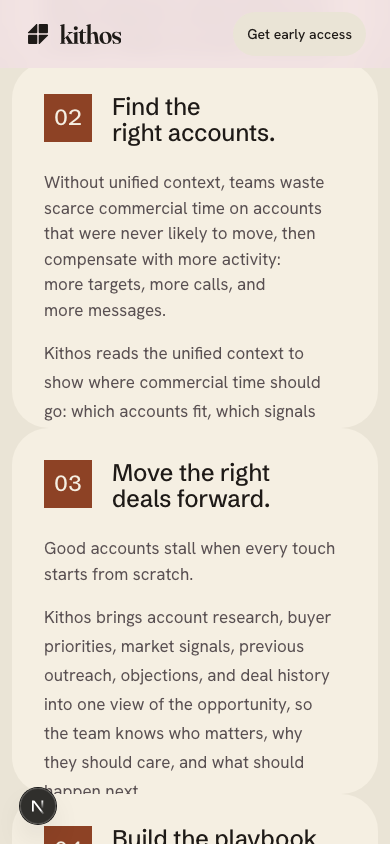
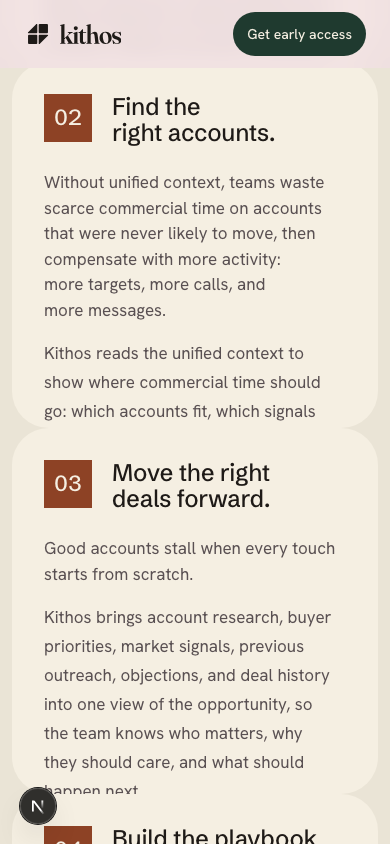
fix(nav): promote CTA to forest pill — ghost tone vanished on bone-shade
After the no-borders pass:
  - AccessButton ghost  → bg-[var(--bone-shade)]
  - TabbedSections      → bg-[var(--bone-shade)]

…meaning the nav CTA's surface was the same colour as the section
surface it floated over (through a 68%-opaque nav tint). The pill
visibly disappeared into TabbedSections, and read as a faint
bone-shade patch on the terracotta closing band.

Switched the nav AccessButton to tone="forest" (brand-primary
pill). Forest (#1F3A2F, L 0.32) contrasts cleanly against every
surface the page can show under the nav — bone, bone-shade,
bone-deeper, and terracotta — in one tone. It also matches the
hero's primary CTA so the brand-primary signal carries across as
the user scrolls.

Brand-mark visual baselines refreshed at all three viewports.
25/25 tests green.

Changed region(s): [[0.5846, 0.0, 0.9538, 0.0924]]

diff --git a/src/app/nav.tsx b/src/app/nav.tsx
@@ -146,7 +146,14 @@ export function Nav() {
           </Link>
 
           <div className="flex items-center gap-1.5 md:gap-3">
-            <AccessButton />
+            {/* Forest pill (brand primary). The nav CTA needs to stay
+                visible across every section it floats over — ghost
+                (bone-shade) vanishes against the bone-shade surface
+                of TabbedSections, and against the terracotta closing
+                band the bone-shade tint reads as a faint patch.
+                Forest contrasts cleanly against bone, bone-shade,
+                bone-deeper, and terracotta in one tone. */}
+            <AccessButton tone="forest" />
           </div>
         </div>
       </nav>